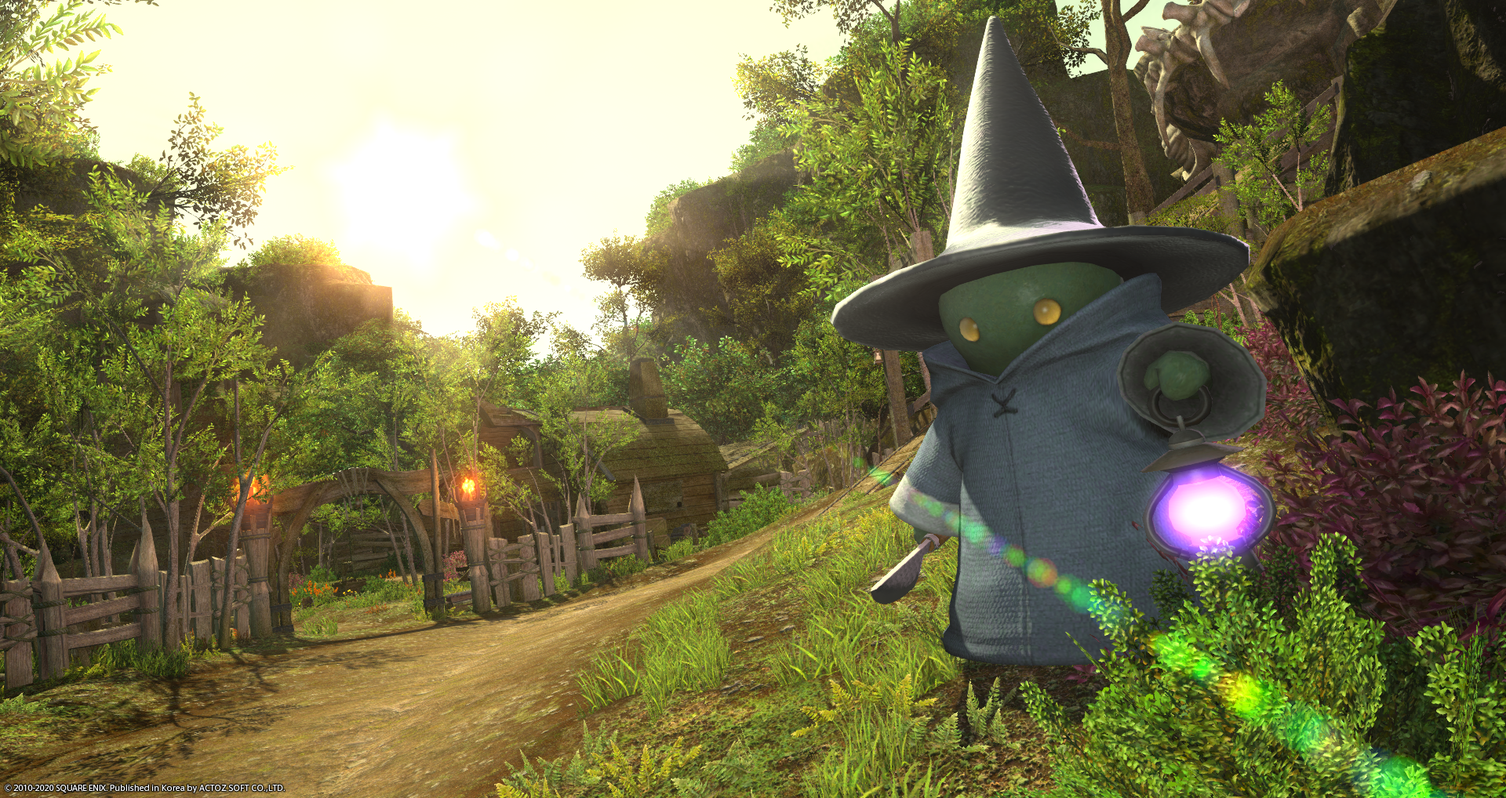
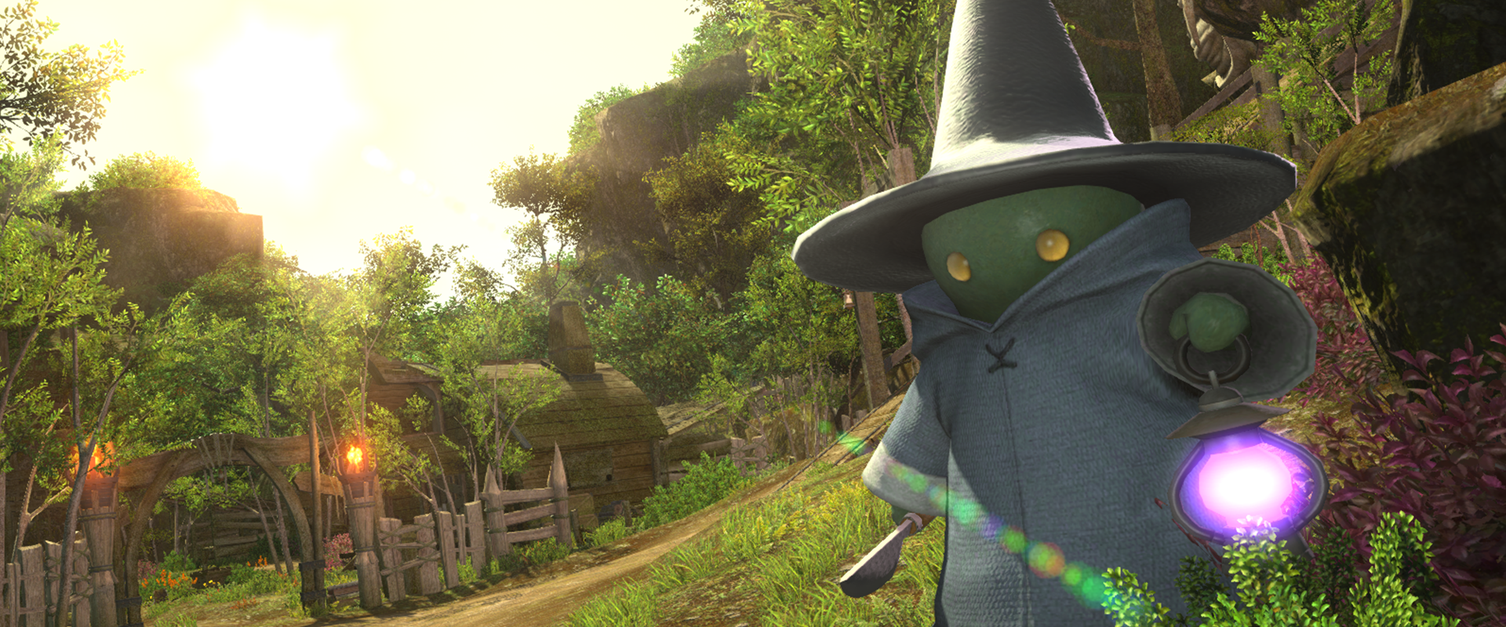
CSS

diff --git a/css/global.css b/css/global.css
@@ -1,12 +1,37 @@
 @media screen and (min-width:1280px) {
     * {margin: 0px; padding: 0px;}
-    body {max-width: 1596px; width: 100%; margin: 0 auto;}
-
+    body {max-width: 1596px; width: 100%; margin: 0 auto; font-family: 'Noto Sans KR';}
+    
     header {height: 75px;}
     header div h1 {background: url("../img/logo/logo_ff14.png") no-repeat left top; background-size: contain; box-sizing: border-box; float: left; width: 235px; height: 65px; display: block; text-indent: -9999px; margin: 5px 0;}
     header div nav ul {list-style: none; margin: 0; padding: 0; overflow: hidden; float: right;}
     header div nav ul > li {float: left;}
-    header div nav ul li > a {font-family: 'Noto Sans KR'; font-size: 20px; font-weight: bold; line-height: 30px; display: block; text-align: center; text-decoration: none; color: black; padding: 22px 50px;}
-    header div nav ul li > a:last-child {background-color: #6893ff; width: 135px; height: 100%;} 
+    header div nav ul li > a {font-size: 20px; font-weight: bold; line-height: 30px; display: block; text-align: center; text-decoration: none; color: #000; padding: 22px 50px;}
+    header div nav ul li > a:last-child {background: linear-gradient(180deg, rgba(117,204,255,1) 0%, rgba(111,189,221,1) 100%); width: 135px; height: 100%; position: relative; overflow: hidden;}
+    header div nav ul li > a:last-child::before {animation: start-btn 3s ease-in-out infinite; position: absolute; content: ''; top: -80px; left: 0; width: 30px; height: 100%; background: rgb(226 244 255 / 50%);}
+    /* header div nav ul li button {background-color: #75CCFF; height: 75px; width: 235px; outline: none; font-size: 20px; font-weight: bold; line-height: 30px; border: none; cursor: pointer;} */
+    /* header div nav ul li button::before {animation: start-btn 3s ease-in-out infinite; } */
+    
+    footer {
+        width: 100vw;
+        background: #070a1a;
+        font-size: 16px;
+        line-height: 25px;
+        color: white;
+        position: relative;
+        left: 50%;
+        right: 50%;
+        margin: 0 -50vw;
+        padding: 190px 162px;
+        box-sizing: border-box;
+    }
+    footer img {position: absolute; top: calc(50% - 100px);}
+    footer p {}
 
+    @keyframes start-btn {
+        0% { -webkit-transform: scale(0) rotate(45deg); opacity: 0; }
+        80% { -webkit-transform: scale(0) rotate(45deg); opacity: 0.5; }
+        81% { -webkit-transform: scale(4) rotate(45deg); opacity: 1; }
+        100% { -webkit-transform: scale(50) rotate(45deg); opacity: 0; }
+    }
 }

diff --git a/index.html b/index.html
@@ -56,6 +56,7 @@
                     </li>
                     <li>
                         <a href="">시작하기</a>
+                        <!-- <button type="button">시작하기</button> -->
                     </li>
                 </ul>
             </nav>
@@ -67,6 +68,9 @@
                 <div><img src="img\bg_slider (2).png" alt=""></div>
                 <div><img src="img\bg_slider (3).png" alt=""></div>
                 <div><img src="img\bg_slider (4).png" alt=""></div>
+                <div><img src="img\bg_slider (5).png" alt=""></div>
+                <div><img src="img\bg_slider (6).png" alt=""></div>
+                <div><img src="img\bg_slider (7).png" alt=""></div>
         </div>
         <h2>
             <!-- <img src="img/logo/logo_xiv03.png" alt="파이널 판타지14 로고"> -->
@@ -82,10 +86,12 @@
         <img src="img\logo\logo_actoz.png" alt="엑토즈 소프트">
         <p>
             <address>
-                (주)액토즈소프트 | 서울시 강남구 테헤란로 44길 8 아이콘 역삼(ICON Yeoksam) 11F~15F | ㉾ 06210 | Tel 1800-9602 | Fax 02-732-8621 | Email FFXIV@actoz.com
+                (주)액토즈소프트 | 서울시 강남구 테헤란로 44길 8 아이콘 역삼(ICON Yeoksam) 11F~15F | ㉾ 06210<br>
+                Tel 1800-9602 | Fax 02-732-8621 | Email FFXIV@actoz.com
             </address>
-            사업자등록번호 201-81-55470 | 통신판매업신고 제 2018-서울강남-03265 | 대표이사 GUO HAIBIN 사업자정보확인
-            © 2010 - 2021 SQUARE ENIX CO., LTD. All Rights Reserved. Published in Korea by Actoz Soft CO., LTD.
+            사업자등록번호 201-81-55470 | 통신판매업신고 제 2018-서울강남-03265 | 대표이사 GUO HAIBIN<br>
+            © 2010 - 2021 SQUARE ENIX CO., LTD. All Rights Reserved.<br>
+            Published in Korea by Actoz Soft CO., LTD.
         </p>
         <img src="img\logo\logo_squar.png" alt="스퀘어 에닉스">
     </footer>

diff --git a/css/page.css b/css/page.css
@@ -4,14 +4,14 @@ body > div {width: 100vw; position: relative; left: 50%; margin: 0 -50vw;}
 .bx-wrapper {box-shadow: none; border: none; margin: 0 auto;}
 .bx-wrapper .bx-pager {bottom: 30px;}
 .bx-wrapper .bx-pager.bx-default-pager a {width: 250px; border-radius: 0; background: white;}
-.bx-wrapper .bx-pager.bx-default-pager a:hover, .bx-wrapper .bx-pager.bx-default-pager a.active, .bx-wrapper .bx-pager.bx-default-pager a:focus {background: violet;}
-div.slider img {width: 100vw; height: 800px; object-fit: cover;}
+.bx-wrapper .bx-pager.bx-default-pager a:hover, .bx-wrapper .bx-pager.bx-default-pager a.active, .bx-wrapper .bx-pager.bx-default-pager a:focus {background: #75ccff;}
+div.slider img {width: 100vw; object-fit: cover;}
 
 body > div > h2 {
     background: url("../img/logo/logo_xiv03.png") no-repeat left top; 
     display: block; 
     padding: 280px 0 100px 165px; 
-    font-family: 'Noto sans KR'; 
+    /* font-family: 'Noto sans KR';  */
     font-size: 55px; 
     line-height: 65px; 
     font-weight: bold;
@@ -29,7 +29,7 @@ section h2 {text-indent: -9999px;}
 section a {
     display: inline-block;
     text-decoration: none;
-    font-family: 'Noto Sans KR';
+    /* font-family: 'Noto Sans KR'; */
     font-size: 40px;
     line-height: 50px;
     color: white;
@@ -38,5 +38,7 @@ section a {
     width: calc((100% - 20px)/2);
     text-align: center;
     box-sizing: border-box;
+    padding: 25px 0px;
 }
-section a:nth-of-type(1) {background: url("../img/outsite.jpg") no-repeat center center; padding: 25px 0px 25px 350px;}
+section a:nth-of-type(1) {background: url("../img/outsite\ \(1\).png") no-repeat center center; padding-left: 350px;}
+section a:nth-of-type(2) {background: url("../img/outsite\ \(2\).png") no-repeat center center; padding-right: 350px;}

diff --git a/data/clean/pageRef.md b/data/clean/pageRef.md
@@ -35,6 +35,8 @@ git
 시작하기 버튼 평행이동이나 사선으로 색채우는거 좋아보인다
 - https://codepen.io/ritchiejacobs/pen/qEJjBM
 
+#6893ff  
+#070a1a
 # 폰트
 Noto sans KR 미디엄 / 볼드 / 레귤러 중 택
 기본 16px lh 25 / 글자간격 50(포토샵).
